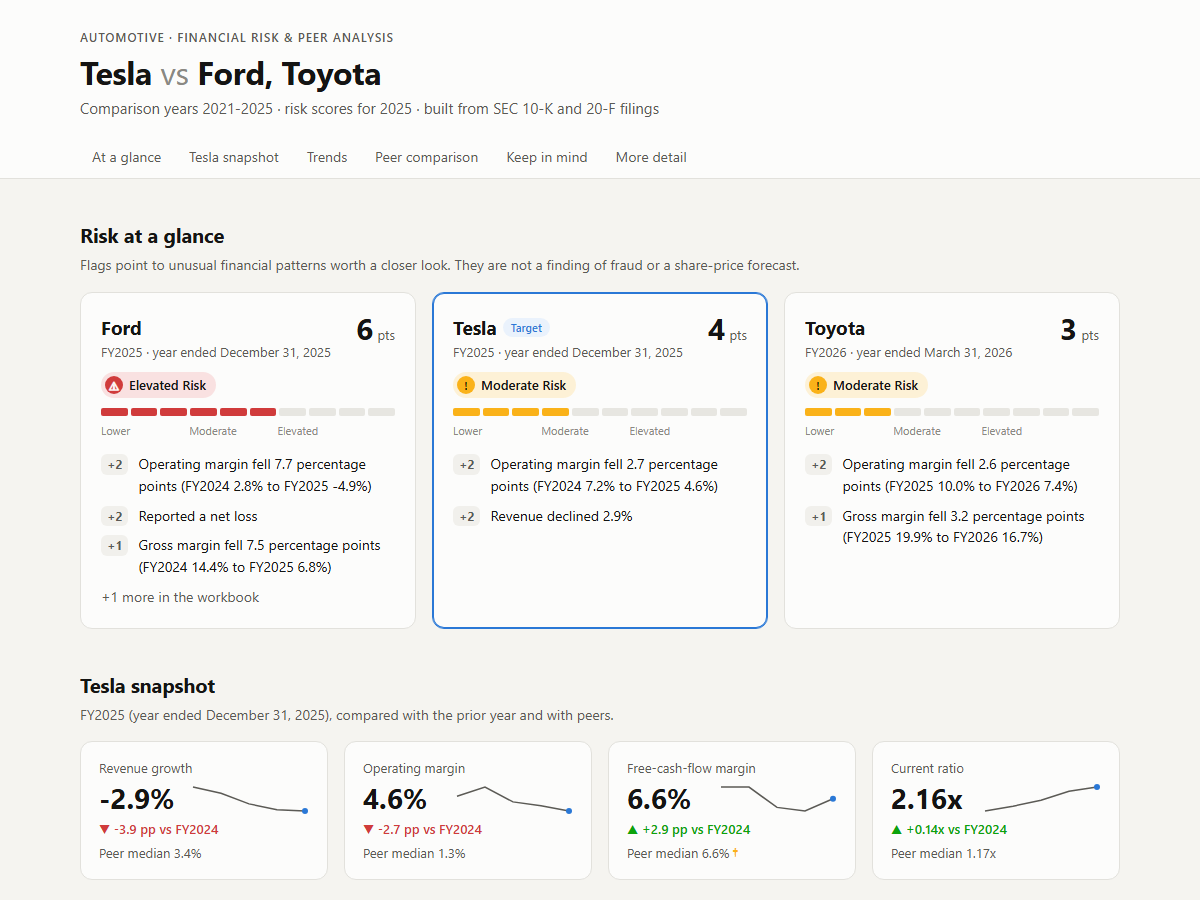
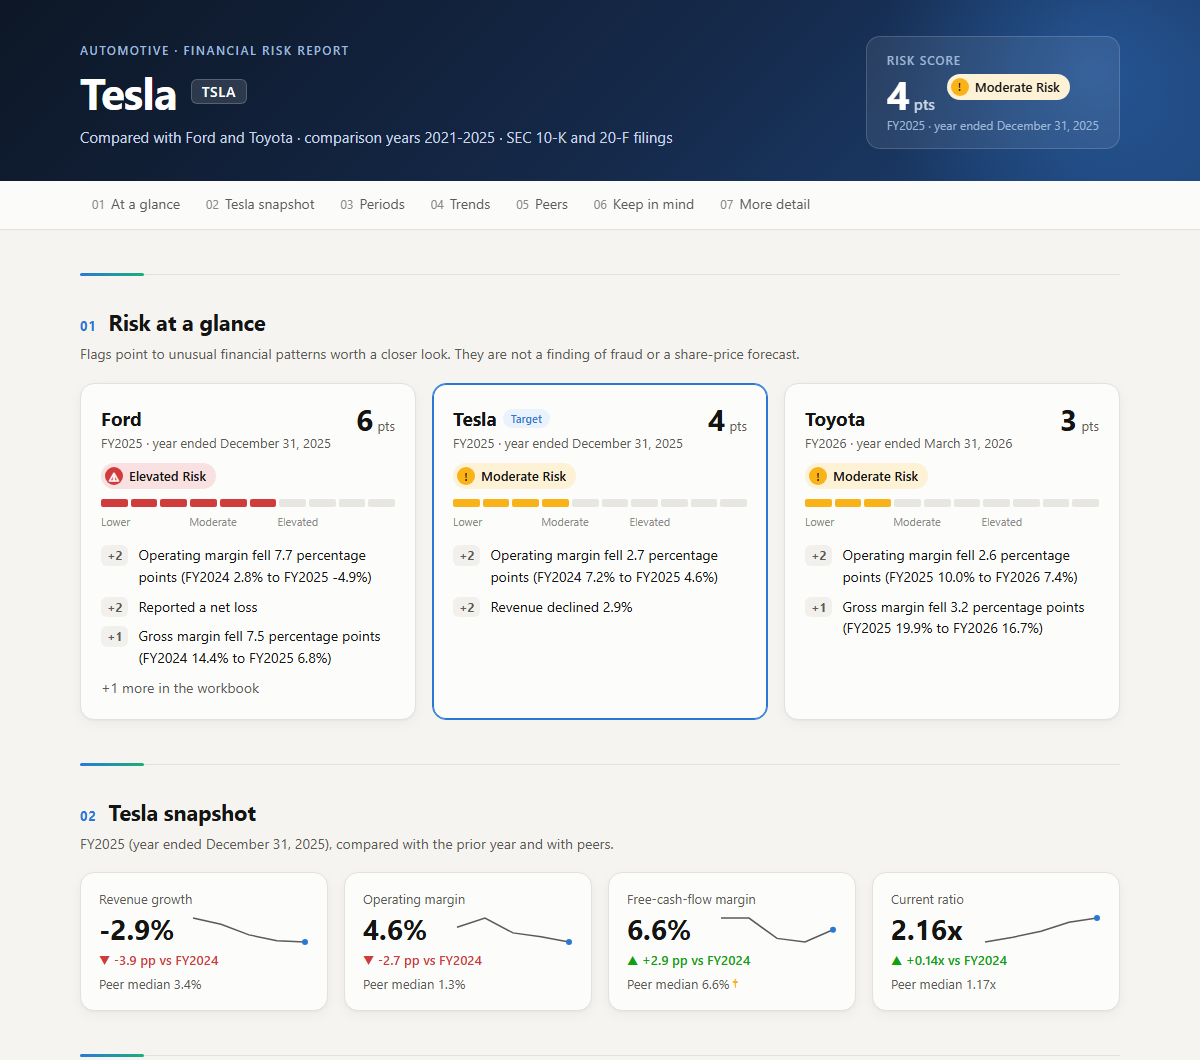
Show only the researched company in the summary header; restyle sections
- Header shows the target company and ticker, with peers in the subtitle
  and the target's risk verdict alongside
- Sticky numbered section navigation; numbered sections separated by
  divider lines with an accent
- Softer card shadows and hover lift; header badge readable in dark mode
- Refresh README screenshot

diff --git a/financial_analyzer/reporting/html.py b/financial_analyzer/reporting/html.py
@@ -51,19 +51,45 @@ body {{ margin:0; background:var(--bg); color:var(--text);
   font:15px/1.55 system-ui,-apple-system,"Segoe UI",Roboto,sans-serif; -webkit-font-smoothing:antialiased; }}
 a {{ color:var(--link); }}
 .wrap {{ max-width:1080px; margin:0 auto; padding:0 20px; }}
-header.top {{ background:var(--surface); border-bottom:1px solid var(--line); padding:28px 0 0; }}
-.eyebrow {{ font-size:12px; letter-spacing:.08em; text-transform:uppercase; color:var(--muted); font-weight:600; }}
-h1 {{ font-size:32px; line-height:1.2; margin:6px 0 6px; letter-spacing:-.01em; }}
-h1 .vs {{ color:var(--faint); font-weight:400; }}
-.lede {{ color:var(--muted); margin:0 0 18px; }}
-nav.sections {{ display:flex; gap:4px; flex-wrap:wrap; }}
-nav.sections a {{ color:var(--muted); text-decoration:none; font-size:14px; padding:8px 12px; border-bottom:2px solid transparent; }}
+header.top {{ background:linear-gradient(135deg,#0d1726 0%,#15294a 55%,#1e4478 100%); color:#fff;
+  padding:36px 0 32px; position:relative; overflow:hidden; }}
+header.top::after {{ content:""; position:absolute; right:-120px; top:-160px; width:460px; height:460px;
+  border-radius:50%; background:radial-gradient(circle,rgba(57,135,229,.35),transparent 65%); pointer-events:none; }}
+.hero {{ display:flex; justify-content:space-between; align-items:flex-end; gap:24px; flex-wrap:wrap; position:relative; z-index:1; }}
+.eyebrow {{ font-size:12px; letter-spacing:.12em; text-transform:uppercase; color:#9fb8d9; font-weight:600; }}
+h1 {{ font-size:44px; line-height:1.1; margin:8px 0 10px; letter-spacing:-.02em; display:flex; align-items:center; gap:14px; }}
+.ticker {{ font-size:14px; font-weight:600; letter-spacing:.04em; padding:4px 10px; border-radius:6px;
+  background:rgba(255,255,255,.12); border:1px solid rgba(255,255,255,.2); }}
+.lede {{ color:#c9d6e8; margin:0; font-size:15px; }}
+.verdict {{ background:rgba(255,255,255,.08); border:1px solid rgba(255,255,255,.16); border-radius:14px;
+  padding:14px 20px; min-width:230px; backdrop-filter:blur(6px); }}
+.verdict-label {{ font-size:12px; color:#9fb8d9; text-transform:uppercase; letter-spacing:.08em; font-weight:600; }}
+.verdict-row {{ display:flex; align-items:baseline; gap:12px; margin:4px 0 2px; }}
+.verdict-score {{ font-size:40px; font-weight:700; line-height:1; }}
+.verdict-score small {{ font-size:15px; font-weight:500; color:#c9d6e8; }}
+.verdict .badge {{ margin:0; color:#141413; }}  /* the header is always dark: fixed light badge colors */
+.verdict .badge.good {{ background:#e5f4e5; }} .verdict .badge.warning {{ background:#fdf1d6; }}
+.verdict .badge.critical {{ background:#f9e1e1; }}
+.verdict-period {{ font-size:12px; color:#9fb8d9; }}
+nav.sections {{ position:sticky; top:0; z-index:5; background:color-mix(in srgb, var(--surface) 88%, transparent);
+  backdrop-filter:blur(10px); border-bottom:1px solid var(--line); }}
+nav.sections .wrap {{ display:flex; gap:2px; overflow-x:auto; }}
+nav.sections a {{ color:var(--muted); text-decoration:none; font-size:14px; padding:12px; white-space:nowrap;
+  border-bottom:2px solid transparent; }}
 nav.sections a:hover {{ color:var(--text); border-bottom-color:var(--accent); }}
-section {{ margin:40px 0 0; scroll-margin-top:16px; }}
-h2 {{ font-size:20px; margin:0 0 4px; letter-spacing:-.005em; }}
-.sub {{ color:var(--muted); font-size:14px; margin:0 0 16px; }}
+nav.sections a span {{ color:var(--faint); font-variant-numeric:tabular-nums; margin-right:6px; font-size:12px; }}
+section {{ position:relative; margin:44px 0 0; padding-top:30px; border-top:1px solid var(--line); scroll-margin-top:56px; }}
+section::before {{ content:""; position:absolute; top:-2px; left:0; width:64px; height:3px; border-radius:2px;
+  background:linear-gradient(90deg,var(--accent),#1baf7a); }}
+.section-head {{ display:flex; align-items:baseline; gap:12px; margin:0 0 4px; }}
+.section-num {{ font-size:13px; font-weight:700; color:var(--accent); font-variant-numeric:tabular-nums; letter-spacing:.06em; }}
+h2 {{ font-size:22px; margin:0; letter-spacing:-.01em; }}
+.sub {{ color:var(--muted); font-size:14px; margin:0 0 18px; }}
 .muted {{ color:var(--muted); }} .small {{ font-size:13px; }}
-.panel {{ background:var(--surface); border:1px solid var(--line); border-radius:12px; }}
+.panel {{ background:var(--surface); border:1px solid var(--line); border-radius:14px;
+  box-shadow:0 1px 2px rgba(15,23,42,.04),0 4px 14px rgba(15,23,42,.04); }}
+.card, .tile {{ transition:transform .15s ease, box-shadow .15s ease; }}
+.card:hover, .tile:hover {{ transform:translateY(-2px); box-shadow:0 2px 4px rgba(15,23,42,.06),0 10px 28px rgba(15,23,42,.08); }}
 
 /* risk cards */
 .cards {{ display:grid; grid-template-columns:repeat(auto-fit,minmax(min(300px,100%),1fr)); gap:16px; }}
@@ -159,7 +185,8 @@ details.section[open] > summary::after {{ content:"\\2212"; }}
 details.section > .body {{ padding:0 18px 16px; }}
 td.wrap {{ white-space:normal; text-align:left; min-width:240px; }}
 footer {{ margin:48px 0 40px; color:var(--faint); font-size:12px; }}
-@media (max-width:560px) {{ h1 {{ font-size:25px; }} .charts {{ grid-template-columns:1fr; }} }}
+@media (max-width:560px) {{ h1 {{ font-size:32px; }} .verdict {{ width:100%; }} .charts {{ grid-template-columns:1fr; }} }}
+@media (prefers-reduced-motion:reduce) {{ .card, .tile {{ transition:none; }} .card:hover, .tile:hover {{ transform:none; }} }}
 """
 
 
@@ -365,72 +392,66 @@ fiscal-year labels are kept; nothing is reclassified.</li>
 {data_notes}</ul></div></details>"""
 
 
+def _section(number: int, sid: str, title: str, subtitle: str, body: str) -> str:
+    return (f'<section id="{sid}"><div class="section-head"><span class="section-num">{number:02d}</span>'
+            f'<h2>{title}</h2></div><p class="sub">{subtitle}</p>{body}</section>')
+
+
+def _verdict(result) -> str:
+    """The target's risk score and level, shown in the page header."""
+    year = result.latest_year
+    row = result.scores[(result.scores.company == result.target) & (result.scores.comparison_year == year)]
+    if row.empty:
+        return ""
+    score, level = int(row.iloc[0]["score"]), row.iloc[0]["risk_level"]
+    p = result.period(result.target, year)
+    return (f'<div class="verdict"><div class="verdict-label">Risk score</div><div class="verdict-row">'
+            f'<span class="verdict-score">{score}<small> {"pt" if score == 1 else "pts"}</small></span>'
+            f'<span class="badge {LEVEL_CLASS[level]}"><span class="icon">{LEVEL_ICON[level]}</span>{level}</span></div>'
+            f'<div class="verdict-period">{p.label} · year ended {long_date(p.end)}</div></div>')
+
+
 def write_summary_page(result, path: Path, chart_paths: dict[str, Path] | None, notes: dict[str, list[str]]) -> Path:
     """chart_paths is unused (the page draws its own SVG charts); kept for a stable call signature."""
-    peers = ", ".join(n for n in result.company_names if n != result.target)
+    peer_names = [n for n in result.company_names if n != result.target]
+    peers = peer_names[0] if len(peer_names) == 1 else ", ".join(peer_names[:-1]) + " and " + peer_names[-1]
+    target_co = next(cf.company for cf in result.financials if cf.company.name == result.target)
     year = result.latest_year
     trends, more_charts = _trends(result)
+    nav = "".join(f'<a href="#{sid}"><span>{i:02d}</span>{escape(label)}</a>' for i, (sid, label) in enumerate(
+        [("glance", "At a glance"), ("snapshot", f"{result.target} snapshot"), ("periods", "Periods"),
+         ("trends", "Trends"), ("peers", "Peers"), ("notes", "Keep in mind"), ("detail", "More detail")], 1))
     used = sorted({form for cf in result.financials for form in cf.forms})
     forms = " and ".join(used) if len(used) <= 2 else ", ".join(used[:-1]) + " and " + used[-1]
     page = f"""<!doctype html>
 <html lang="en"><head><meta charset="utf-8"><meta name="viewport" content="width=device-width,initial-scale=1">
 <title>{escape(result.target)} Risk Summary</title><style>{CSS}</style></head>
 <body>
-<header class="top"><div class="wrap">
-  <div class="eyebrow">{escape(result.profile.name)} · Financial risk &amp; peer analysis</div>
-  <h1>{escape(result.target)} <span class="vs">vs</span> {escape(peers)}</h1>
-  <p class="lede">Comparison years {result.first_year}-{result.last_year} · risk scores for {year} ·
-  built from SEC {forms} filings</p>
-  <nav class="sections"><a href="#glance">At a glance</a><a href="#snapshot">{escape(result.target)} snapshot</a>
-  <a href="#trends">Trends</a><a href="#peers">Peer comparison</a><a href="#notes">Keep in mind</a>
-  <a href="#detail">More detail</a></nav>
+<header class="top"><div class="wrap hero">
+  <div>
+    <div class="eyebrow">{escape(result.profile.name)} · Financial risk report</div>
+    <h1>{escape(result.target)} <span class="ticker">{escape(target_co.ticker)}</span></h1>
+    <p class="lede">Compared with {escape(peers)} · comparison years {result.first_year}-{result.last_year} ·
+    SEC {forms} filings</p>
+  </div>
+  {_verdict(result)}
 </div></header>
+<nav class="sections" aria-label="Sections"><div class="wrap">{nav}</div></nav>
 <main class="wrap">
-
-<section id="glance">
-  <h2>Risk at a glance</h2>
-  <p class="sub">Flags point to unusual financial patterns worth a closer look. They are not a finding of fraud or a
-  share-price forecast.</p>
-  {_cards(result, notes)}
-</section>
-
-<section id="snapshot">
-  <h2>{escape(result.target)} snapshot</h2>
-  <p class="sub">{escape(result.period_label(result.target, year))}, compared with the prior year and with peers.</p>
-  {_snapshot(result)}
-</section>
-
-<section id="periods">
-  <h2>Periods compared</h2>
-  <p class="sub">Fiscal years end on different dates, so each company keeps its own label.</p>
-  {_periods_table(result, year)}
-</section>
-
-<section id="trends">
-  <h2>Trends</h2>
-  <p class="sub">By comparison year. Hover or focus a chart to see every company's value and fiscal year.</p>
-  {trends}
-  <div style="margin-top:16px">{more_charts}</div>
-</section>
-
-<section id="peers">
-  <h2>Peer comparison</h2>
-  <p class="sub">Comparison year {year}.</p>
-  {_peer_table(result)}
-</section>
-
-<section id="notes">
-  <h2>Keep in mind</h2>
-  <p class="sub">Differences in how the companies report that affect the comparison.</p>
-  {_keep_in_mind(result)}
-</section>
-
-<section id="detail">
-  <h2>More detail</h2>
-  <p class="sub">The full workbook, <strong>financial_report.xlsx</strong>, is in this folder.</p>
-  {_events(result)}
-  {_methodology(result)}
-</section>
+{_section(1, "glance", "Risk at a glance", "Flags point to unusual financial patterns worth a closer look. They are "
+          "not a finding of fraud or a share-price forecast.", _cards(result, notes))}
+{_section(2, "snapshot", f"{escape(result.target)} snapshot",
+          f"{escape(result.period_label(result.target, year))}, compared with the prior year and with peers.",
+          _snapshot(result))}
+{_section(3, "periods", "Periods compared", "Fiscal years end on different dates, so each company keeps its own label.",
+          _periods_table(result, year))}
+{_section(4, "trends", "Trends", "By comparison year. Hover or focus a chart to see every company's value and fiscal "
+          "year.", trends + f'<div style="margin-top:16px">{more_charts}</div>')}
+{_section(5, "peers", "Peer comparison", f"Comparison year {year}.", _peer_table(result))}
+{_section(6, "notes", "Keep in mind", "Differences in how the companies report that affect the comparison.",
+          _keep_in_mind(result))}
+{_section(7, "detail", "More detail", "The full workbook, <strong>financial_report.xlsx</strong>, is in this folder.",
+          _events(result) + _methodology(result))}
 
 <footer>Generated {date.today():%B} {date.today().day}, {date.today().year} from SEC EDGAR filings.
 Not investment advice.</footer>
